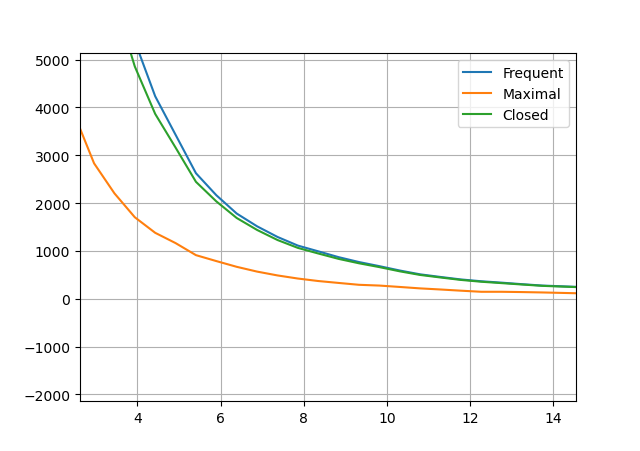
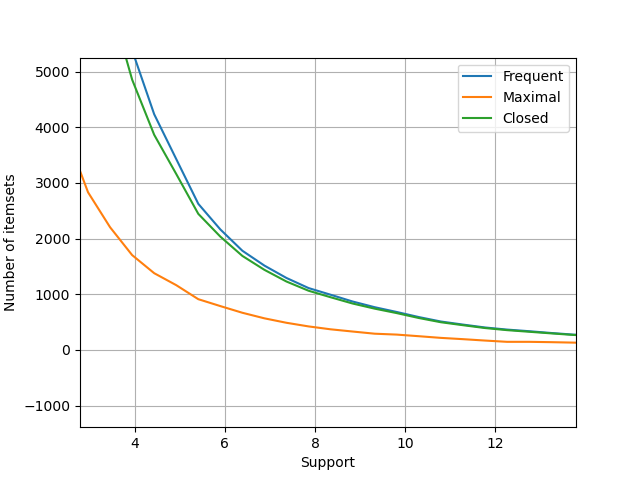
figure itemsets

diff --git a/Codici/associationrules.py b/Codici/associationrules.py
@@ -3,6 +3,7 @@ import pandas as pd
 import matplotlib.pyplot as plt
 from fim import apriori
 import tqdm
+from scipy.optimize import curve_fit
 '''
 Rapresentative set of frequent itemsets:
 Maxiaml Frequent Itemset --> An itemset is said to be maximal frequent if none of its immediate supersets are frequent.
@@ -45,7 +46,7 @@ test = df.iloc[630:]
 
 # ======================================================================================================================================================================
 association_rule=False
-itemsets_gen = False
+itemsets_gen = True
 
 # ======================================================================================================================================================================
 
@@ -69,8 +70,21 @@ if itemsets_gen:
     plt.plot(np.linspace(1,25,50), itemsets_tot, label='Frequent')
     plt.plot(np.linspace(1,25,50), itemsets_maximal, label='Maximal')
     plt.plot(np.linspace(1,25,50), itemsets_closed, label='Closed')
-    plt.legend()
+    # plt.plot(np.linspace(1,25,50), 219226*np.exp(-1.14722*np.linspace(1,25,50)), linestyle = '--', c='k',alpha = 0.4, label = r'Exponential fit: $Ae^{bs}$')
+    # plt.legend()
+    plt.xlabel('Support')
+    plt.ylabel('Number of itemsets')
     plt.grid(True)
+    
+    
+      
+    # t1=np.linspace(1,25,50)
+    # dist1=itemsets_tot
+    # def model(t1,m,q):
+    #     return m*np.exp(q*t1)
+    # popt,pocov=curve_fit(model,t1,dist1)
+    
+    
     
     itemsets_10 = apriori(basket, supp=10, zmin=2, target='c')
     interest_itemsets = []
